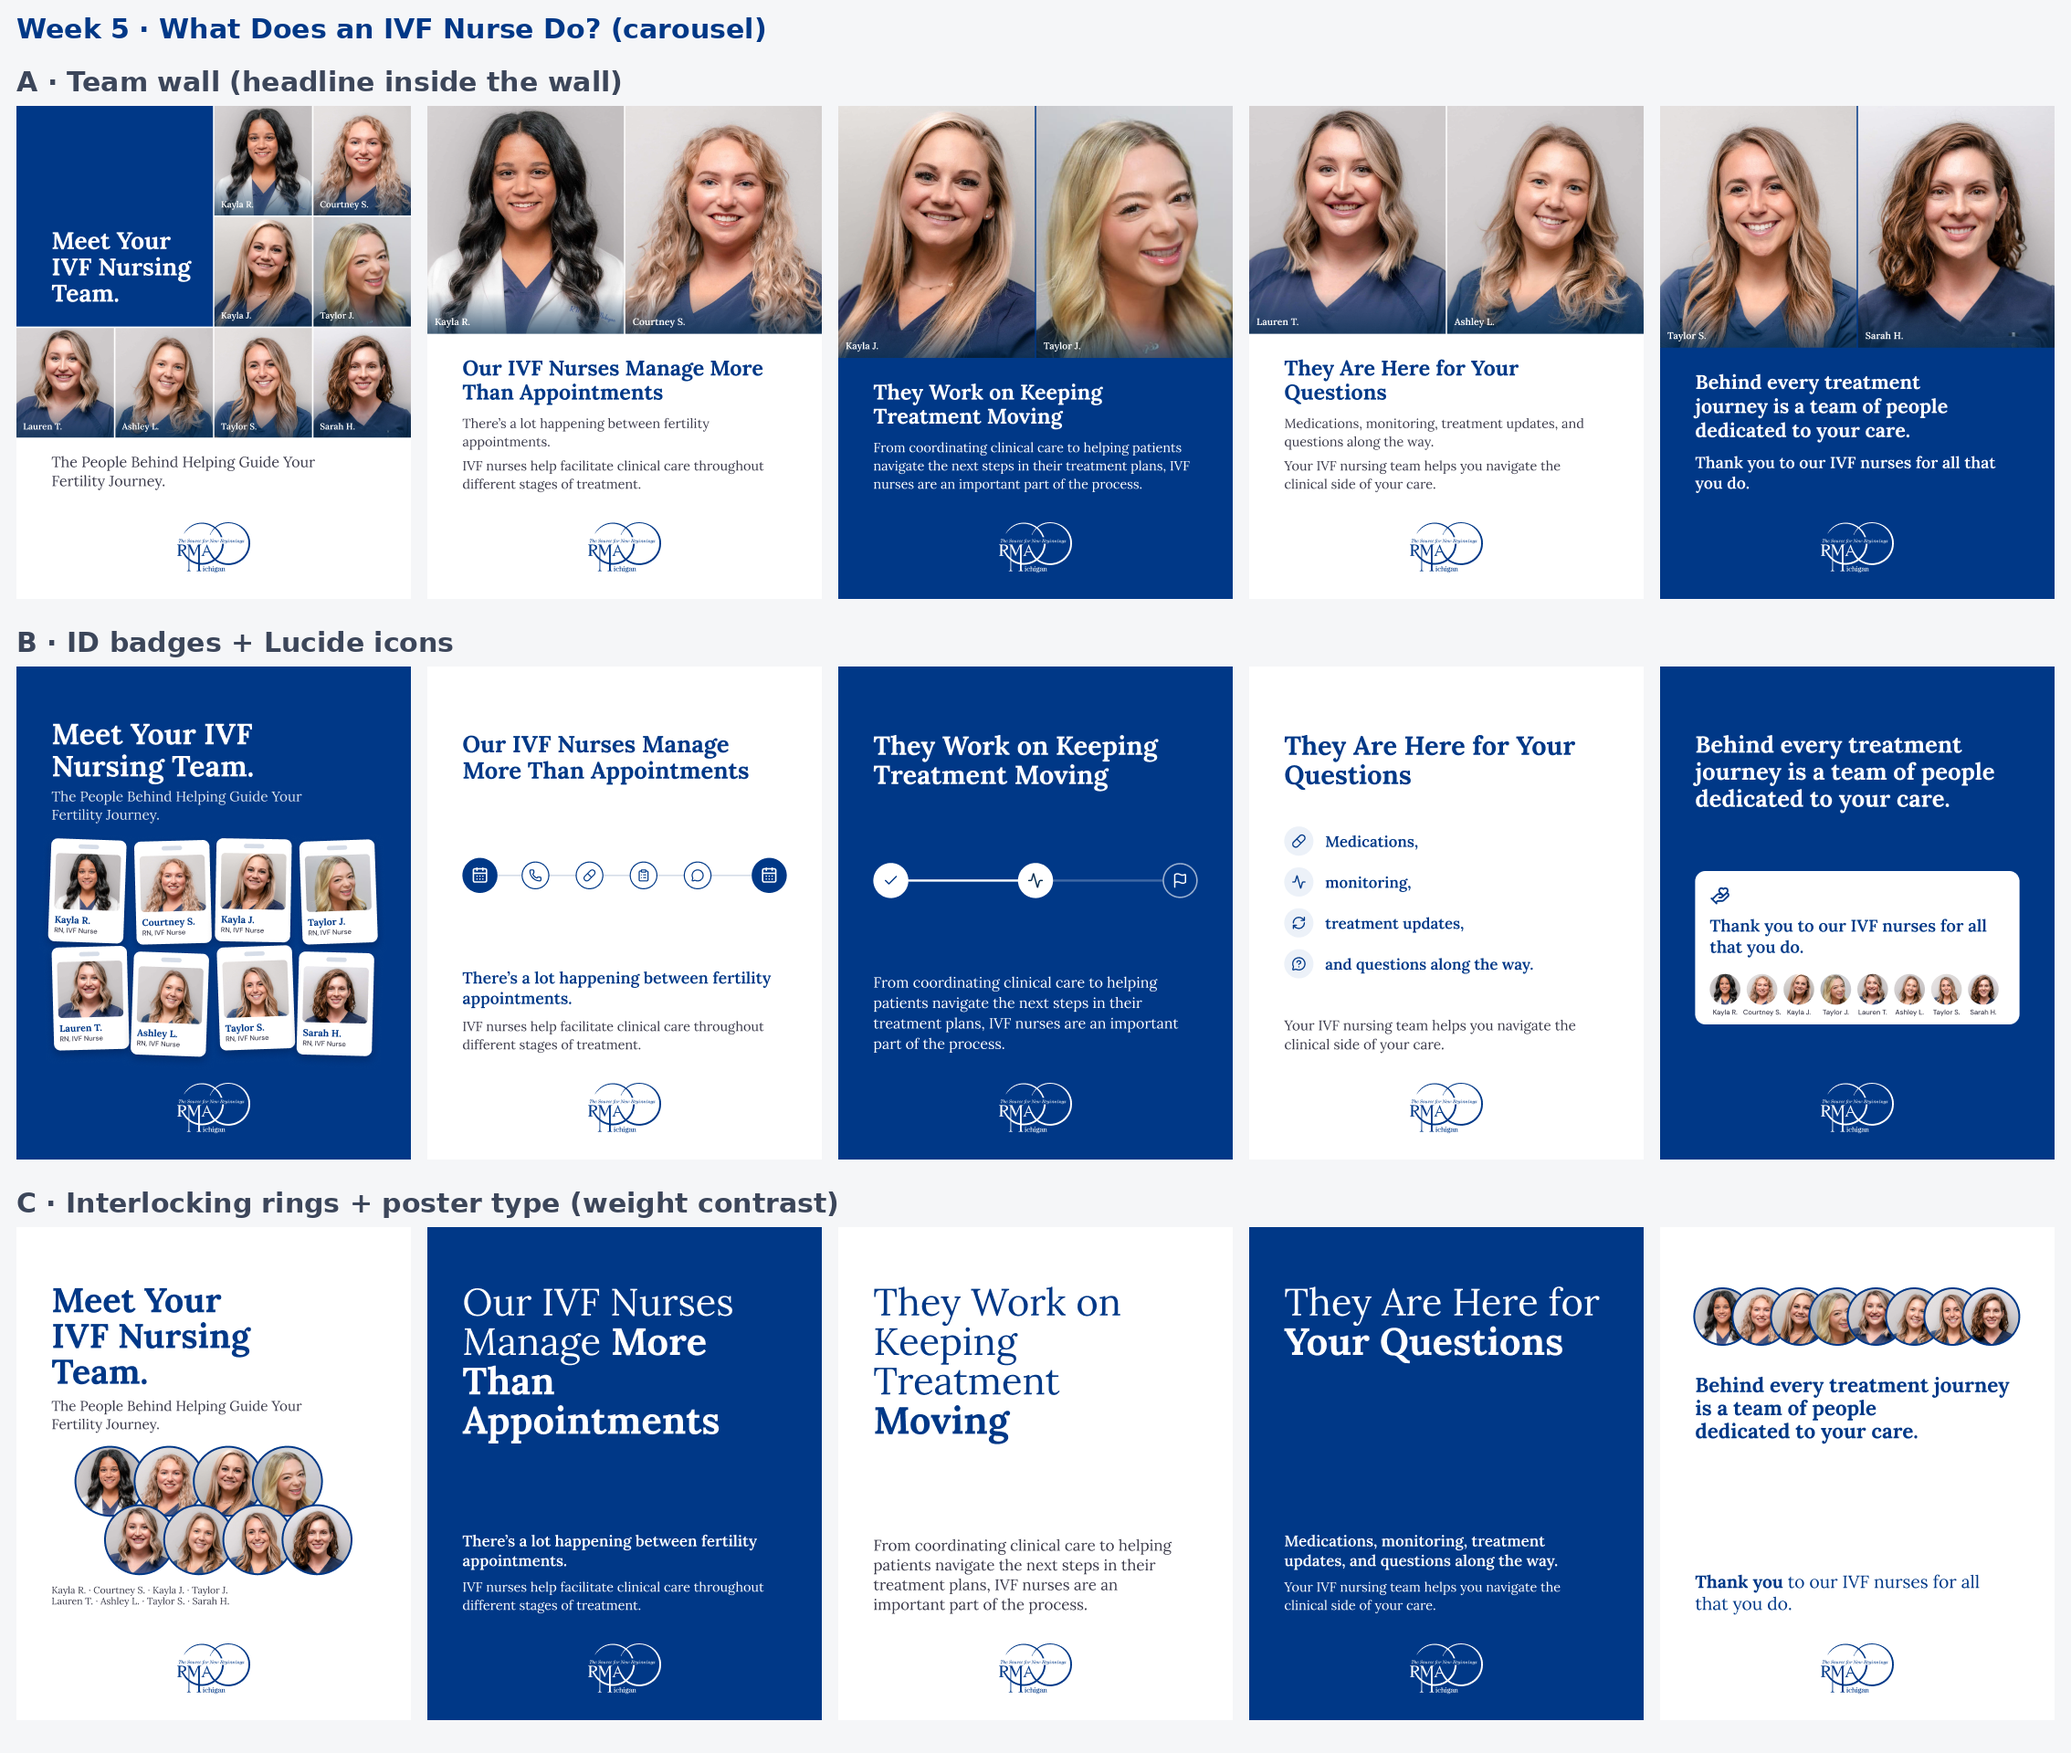
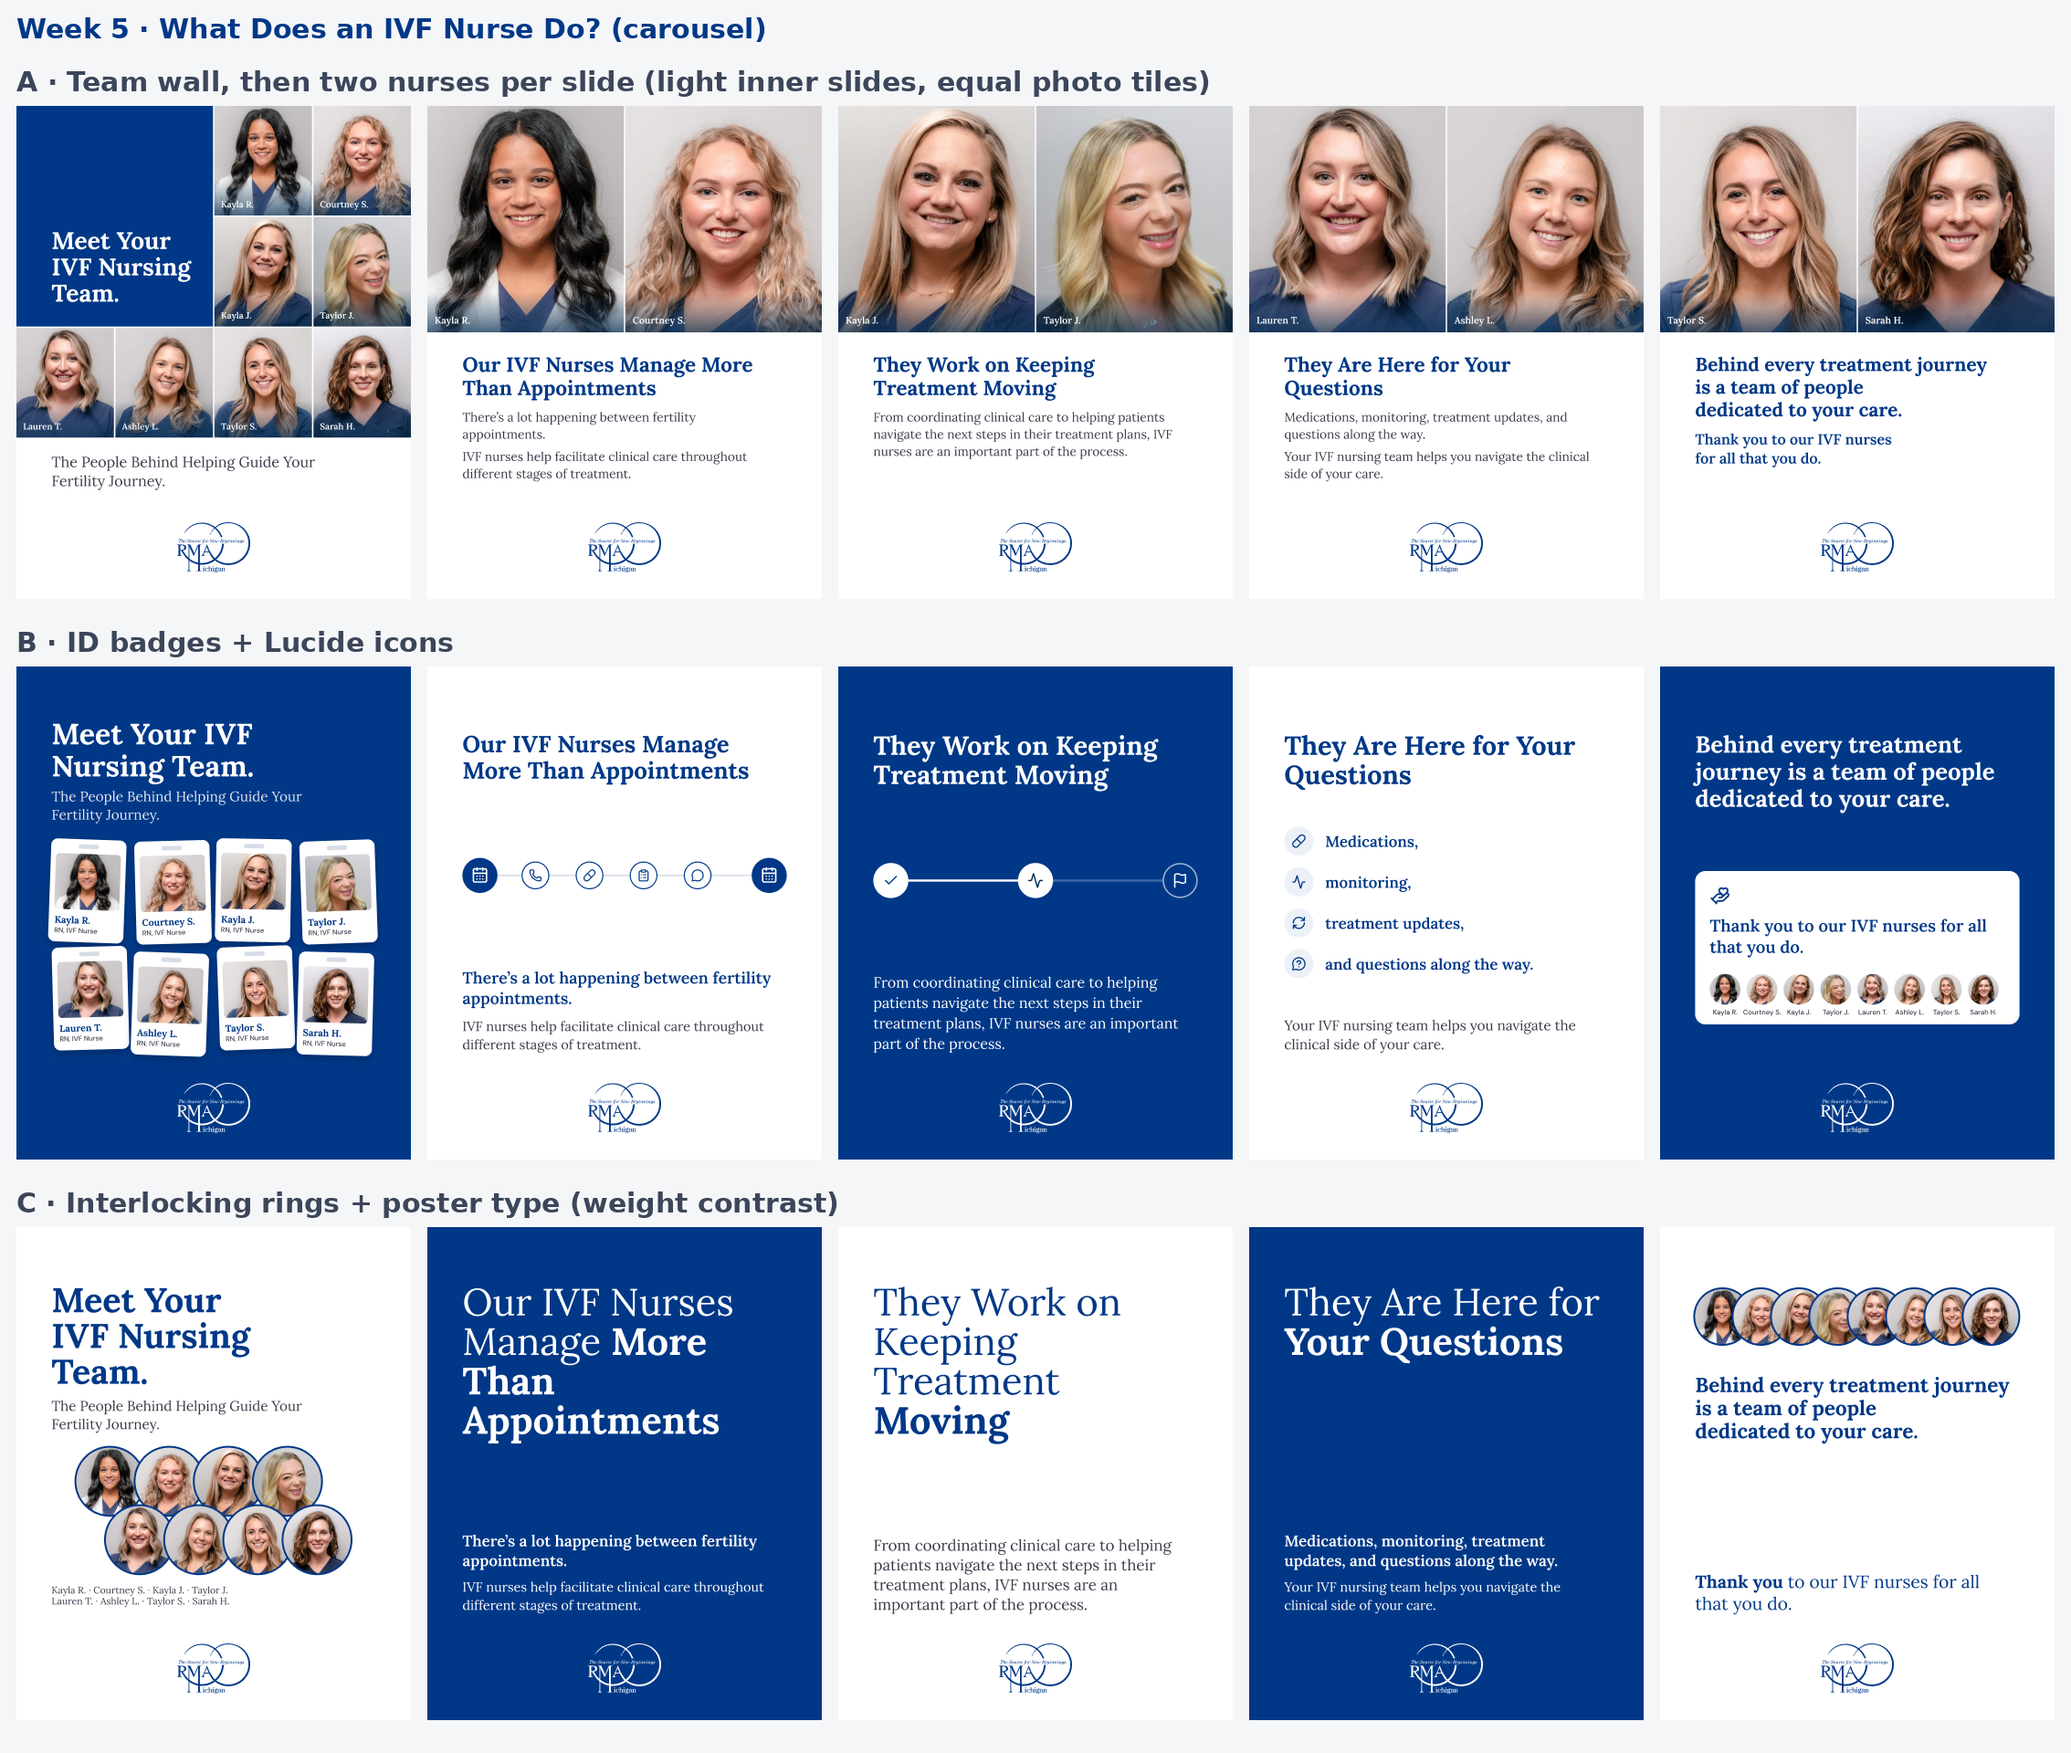
IVF nurses A: light inner slides, equal photo tiles, matched face scale
Claude-Session: https://claude.ai/code/session_016yKrfT8RQFRJPW8Btr4Q9U

Changed region(s): [[0.1235, 0.0312, 1.0, 0.3438]]

diff --git a/rma-michigan-social/handoff-dec-batch.md b/rma-michigan-social/handoff-dec-batch.md
@@ -61,7 +61,7 @@ Each version was checked separately on its render:
 | FSA · A | Footer / final impression: the page ends on the logo after the text block. | "New on the blog" (icon + label) sat above the headline as an eyebrow, which the craft floor bans. | The label now closes the text block as a sign-off under the subtitle. |
 | FSA · B | Card treatment: distinction should come from material and hierarchy (no side accent used). | The tag pill above the title was an eyebrow. | The tag moved onto the photo as the blog card's own tag; the title now leads. |
 | FSA · C | Typographic play: a one-word size change is a slop move. | "or" was the only variation, and the label was an eyebrow. | "FSA / or HSA?" are now the same size, with "or" varying by weight and tone (Regular, 60%). The label closes the block. |
-| Nurses · A | Section layouts: a headshot grid with a headline below is a template. | Squint test: the cover read as a staff directory, with the headline second. | The headline is now a navy 2×2 block inside the wall. The inner pairs stay as they are, because the repetition helps people recognise the series. |
+| Nurses · A | Section layouts: a headshot grid with a headline below is a template. | Squint test: the cover read as a staff directory, with the headline second. | The headline is now a navy 2×2 block inside the wall. The inner pairs stay as they are, because the repetition helps people recognise the series. **Your revision (Nov 16):** inner slides 2–5 are on white only; every photo is the same 538×620 tile, cropped so faces sit at the same scale (matched to Taylor J.'s tighter source photo); the text starts on the same line on every slide; slide 5's lines are re-broken. |
 | Nurses · B | Section layouts: a template stack. | Slides 2–4 repeated title → visual → body with a dead band above the logo. Slide 4 had split the brief's sentence into a list. | The body now sits on the bottom line, with the visual centred between title and body. Slide 4 is back to the exact sentence, set over the icon rows. |
 | Nurses · C | Typographic play: tone-only dimming. | It used the same emphasis device as Treatment Plan C. | Switched to weight contrast: the headline in Regular, the key phrase in Bold, at full colour. "Thank you" is Bold on slide 5. |
 | Plan · A | Section layouts / section transitions. | Rhythm holds: full-bleed slides (1, 3, 5) alternate with split slides (2, 4). Slide 3's text had low contrast over the hand. | Stronger fade behind slide 3's text; line breaks fixed on slides 3 and 5. |
